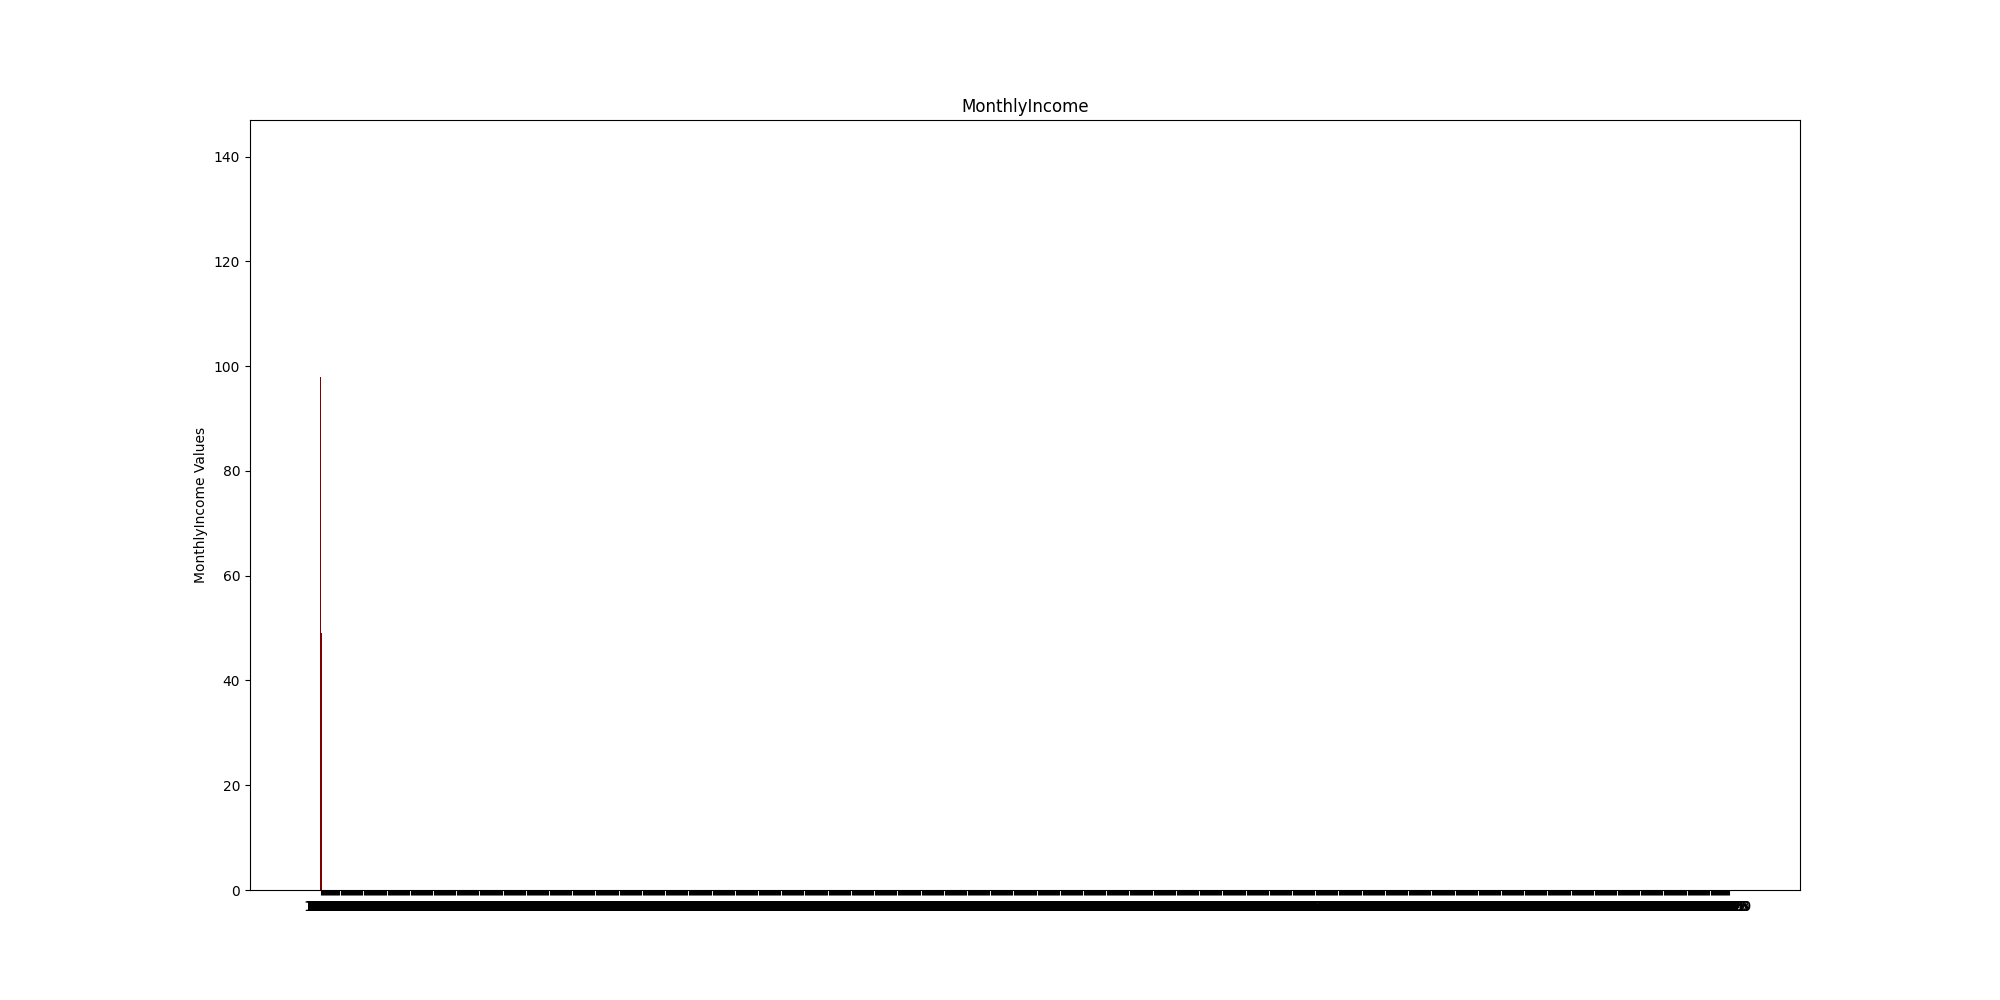
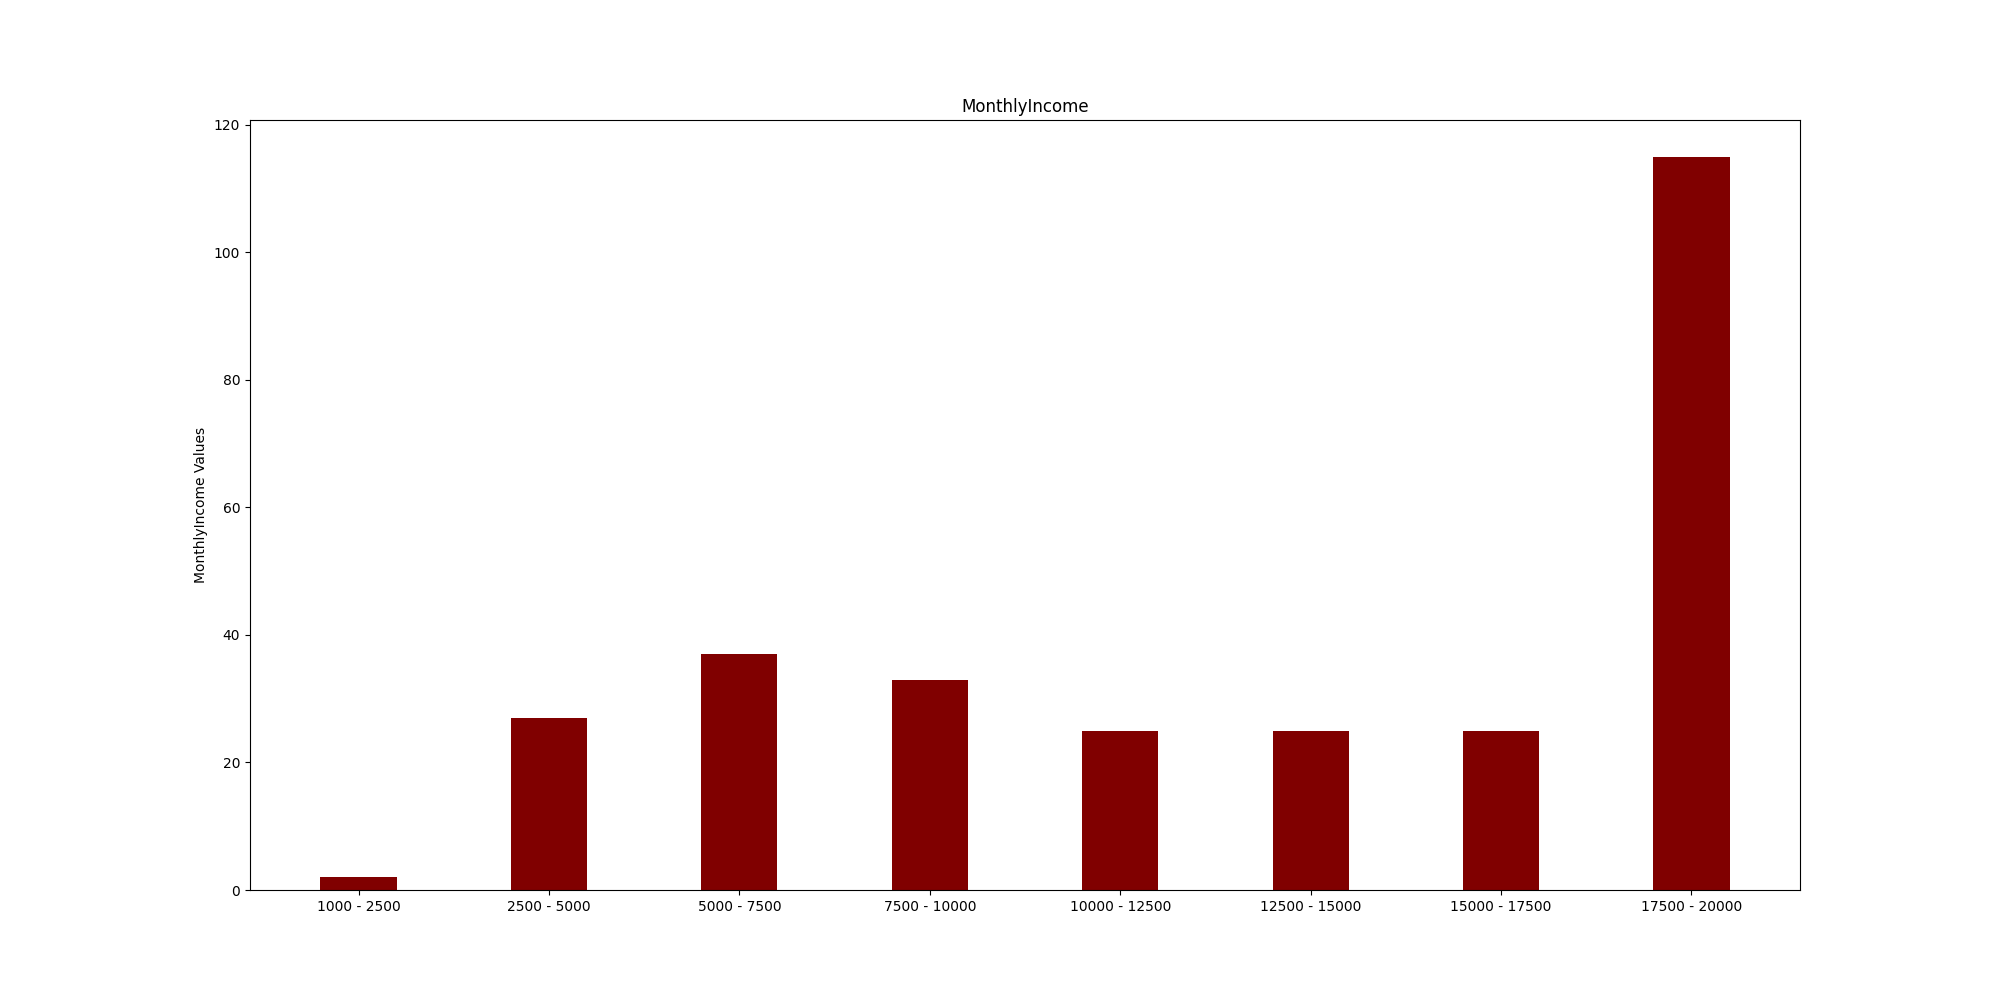
Update plots and remove GradientBoostingRegressor from import

Changed region(s): [[0.155, 0.155, 0.868, 0.93], [0.093, 0.248, 0.124, 0.279]]

diff --git a/model/__init__.py b/model/__init__.py
@@ -2,43 +2,47 @@ import os
 from collections import Counter
 
 import pandas as pd
-from sklearn.ensemble import RandomForestClassifier, GradientBoostingRegressor, BaggingClassifier
+from sklearn.ensemble import RandomForestClassifier, BaggingClassifier
 from sklearn.metrics import accuracy_score
 from sklearn.model_selection import train_test_split
 from sklearn.neighbors import KNeighborsClassifier
-from sklearn.preprocessing import LabelEncoder
 from xgboost import XGBClassifier
 
-COLS_TO_ENCODE = [
-    "Attrition",
-    "BusinessTravel",
-    "Department",
-    "EducationField",
-    "Gender",
-    "JobRole",
-    "MaritalStatus",
-    "Over18",
-    "OverTime"
-]
+COLS_TO_ENCODE = {
+    "Attrition": {},
+    "BusinessTravel": {},
+    "Department": {},
+    "EducationField": {},
+    "Gender": {},
+    "JobRole": {},
+    "MaritalStatus": {},
+    "Over18": {},
+    "OverTime": {}
+}
 
 
 class HREmployeeAttritionModel(object):
+    COLS_INDEXES = {}
+
     def __init__(self):
         self._number_of_employees = 0
-        self._hr_retention_data = self._get_hr_retention_data()
+        self.hr_retention_data = self._get_hr_retention_data()
+        self.x_cols = [col for col in self.hr_retention_data.columns if col != "Attrition"]
+        self.reversed_mappings = {}
+        HREmployeeAttritionModel.COLS_INDEXES = {col: 0
+                                                 for col in self.hr_retention_data.columns
+                                                 if col != "Attrition"}
 
         self.classifiers = {
             "RandomForestClassifier_Gini": RandomForestClassifier(n_estimators=500, criterion="gini"),
             "RandomForestClassifier_Entropy": RandomForestClassifier(n_estimators=500, criterion="entropy"),
             "KNeighborsClassifier": KNeighborsClassifier(),
-            "GradientBoostingRegressor": GradientBoostingRegressor(n_estimators=100, loss='ls'),
             "BaggingClassifier": BaggingClassifier(n_estimators=1000),
             "XGBClassifier": XGBClassifier(n_estimators=1000, max_depth=3)
         }
 
         fitted_data = self._get_fitted_data()
-        x_cols = [col for col in self._hr_retention_data.columns if col != "Attrition"]
-        x = fitted_data[x_cols]
+        x = fitted_data[self.x_cols]
         y = fitted_data["Attrition"]
         self.x_train, self.x_test, self.y_train, self.y_test = train_test_split(x, y, test_size=0.2, random_state=999)
 
@@ -49,11 +53,25 @@ class HREmployeeAttritionModel(object):
         return data
 
     def _get_fitted_data(self):
-        encoder = LabelEncoder()
-        data = self._hr_retention_data.copy(deep=True)
+        data = self.hr_retention_data.copy(deep=True)
+
+        for col in self.hr_retention_data.columns:
+            col_data = data[col].astype(str)
+            col_data = set(col_data.tolist())
+            reverse_mapping = {i: val for val, i in zip(col_data, range(len(col_data)))}
+            self.reversed_mappings[col] = reverse_mapping
+
+        for col in self.hr_retention_data.columns:
+            if col in HREmployeeAttritionModel.COLS_INDEXES:
+                HREmployeeAttritionModel.COLS_INDEXES[col] = list(self.hr_retention_data.columns).index(col)
 
         for col in COLS_TO_ENCODE:
-            data[col] = encoder.fit_transform(data[col].astype(str))
+            col_data = data[col].astype(str)
+            col_data = set(col_data.tolist())
+            print(f"{col}: {col_data}")
+            mapping = {val: i for val, i in zip(col_data, range(len(col_data)))}
+            COLS_TO_ENCODE[col] = mapping
+            data[col] = data[col].map(mapping)
 
         return data
 
@@ -66,15 +84,21 @@ class HREmployeeAttritionModel(object):
 
     def predict(self, data):
         predictions = []
+        end_predictions = []
         for model_name, model in self.classifiers.items():
             print(f"Predicting with model: {model_name}")
             prediction = model.predict(data)
             predictions.append(prediction)
             print(f"Predicted: {prediction}")
 
-        counted_predictions = Counter(predictions)
-        top_prediction = max(counted_predictions, key=counted_predictions.get)
-        return top_prediction
+        num_of_classifiers = len(self.classifiers)
+
+        for i in range(len(predictions[0])):
+            preds = [predictions[j][i] for j in range(num_of_classifiers)]
+            counted_predictions = Counter(preds)
+            top_prediction = max(counted_predictions, key=counted_predictions.get)
+            end_predictions.append(top_prediction)
+        return end_predictions
 
     def log_train_res(self, model, model_name):
         print(f"Train accuracy for {model_name}: "

diff --git a/run.py b/run.py
@@ -16,12 +16,22 @@ def get_age_index_to_inc(age):
 
 
 def get_monthly_index_to_inc(monthly_income):
-    if monthly_income < 10000:
+    if 1000 <= monthly_income < 2500:
         return 0
-    elif 10000 <= monthly_income < 15000:
+    if 2500 <= monthly_income < 5000:
         return 1
-    else:
+    elif 5000 <= monthly_income < 7500:
         return 2
+    elif 7500 <= monthly_income < 10000:
+        return 3
+    elif 10000 <= monthly_income < 12500:
+        return 4
+    elif 12500 <= monthly_income < 15000:
+        return 5
+    elif 15000 <= monthly_income < 17500:
+        return 6
+    else:
+        return 7
 
 
 def get_hourly_rate_index_to_inc(hourly_rate):
@@ -74,11 +84,13 @@ def visualize_classifier():
             "vals": [0] * 7
         },
         "MonthlyIncome": {
-            "langs": ["Below 10000", "Between 10000 and 15000", "Above 15000"],
-            "vals": [0] * 3
+            "langs": ["1000 - 2500", "2500 - 5000", "5000 - 7500", "7500 - 10000", "10000 - 12500", "12500 - 15000",
+                      "15000 - 17500", "17500 - 20000"],
+            "vals": [0] * 8
         },
     }
-    not_needed_to_add = ["EmployeeNumber", "Age", "DailyRate", "EmployeeCount", "MonthlyRate", "Over18"]
+    not_needed_to_add = ["EmployeeNumber", "Age", "DailyRate", "EmployeeCount", "MonthlyRate", "Over18",
+                         "MonthlyIncome"]
 
     for col in model.hr_retention_data.columns:
         if col not in not_needed_to_add:
